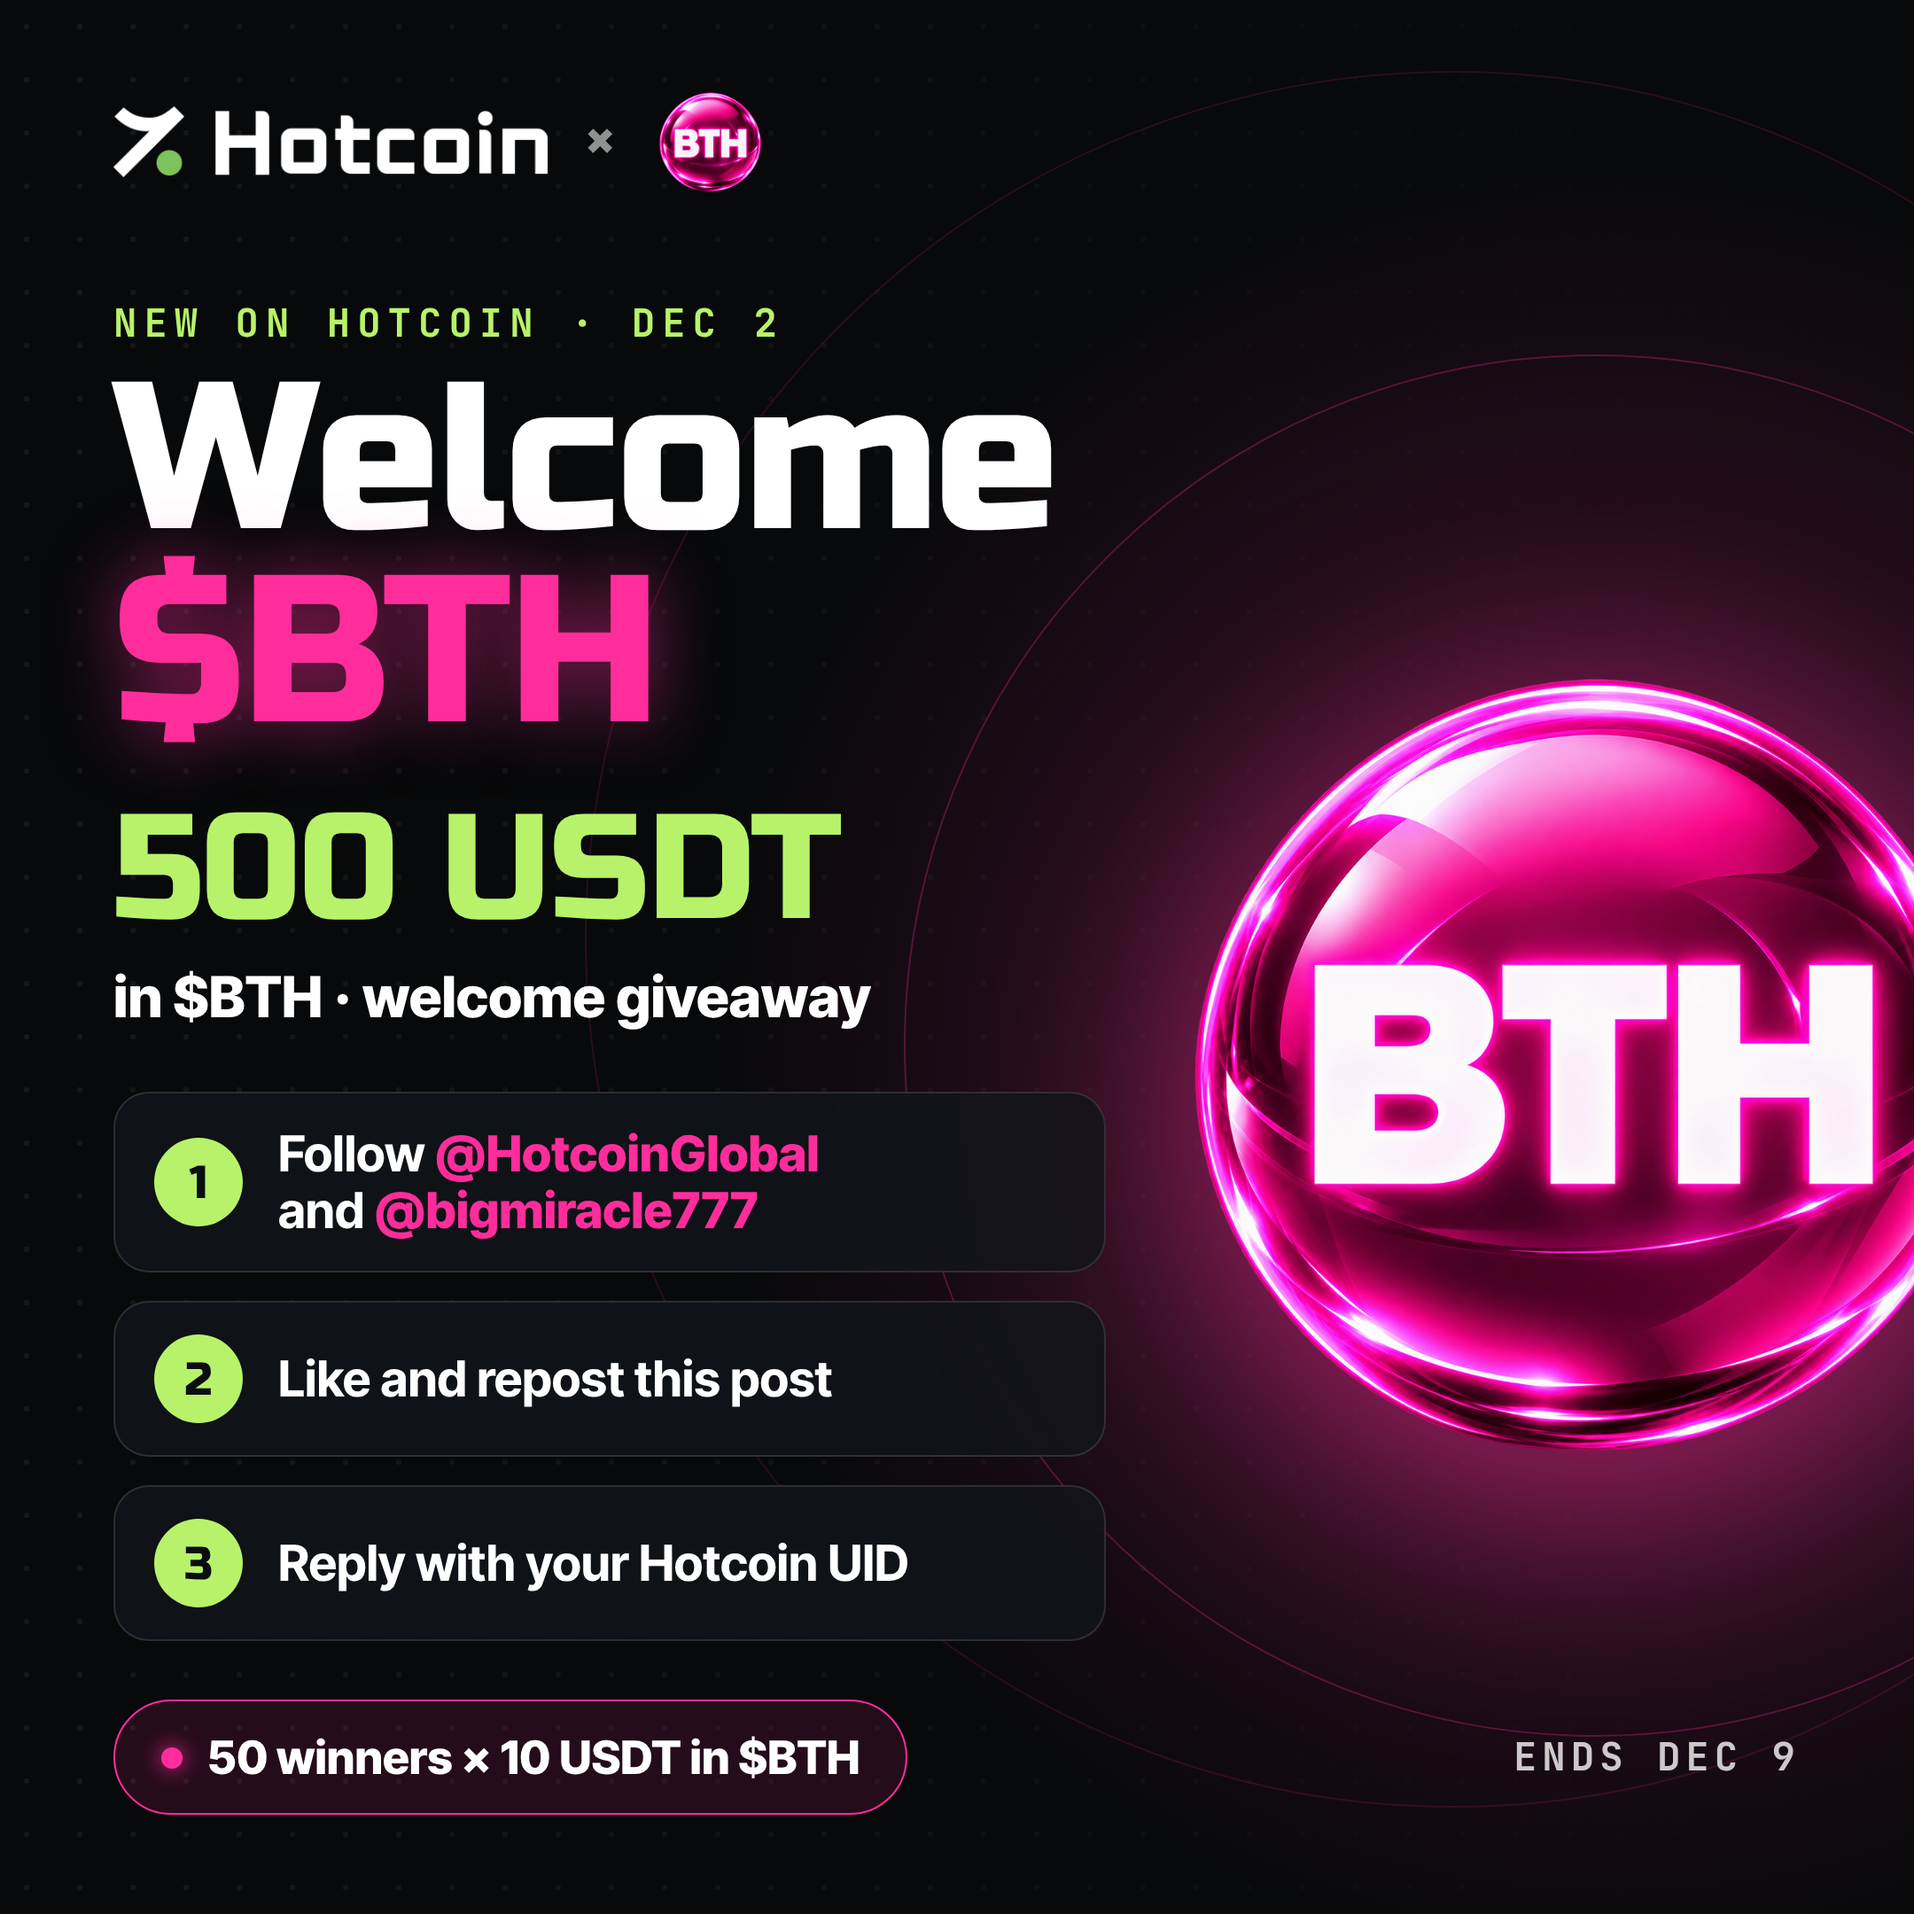
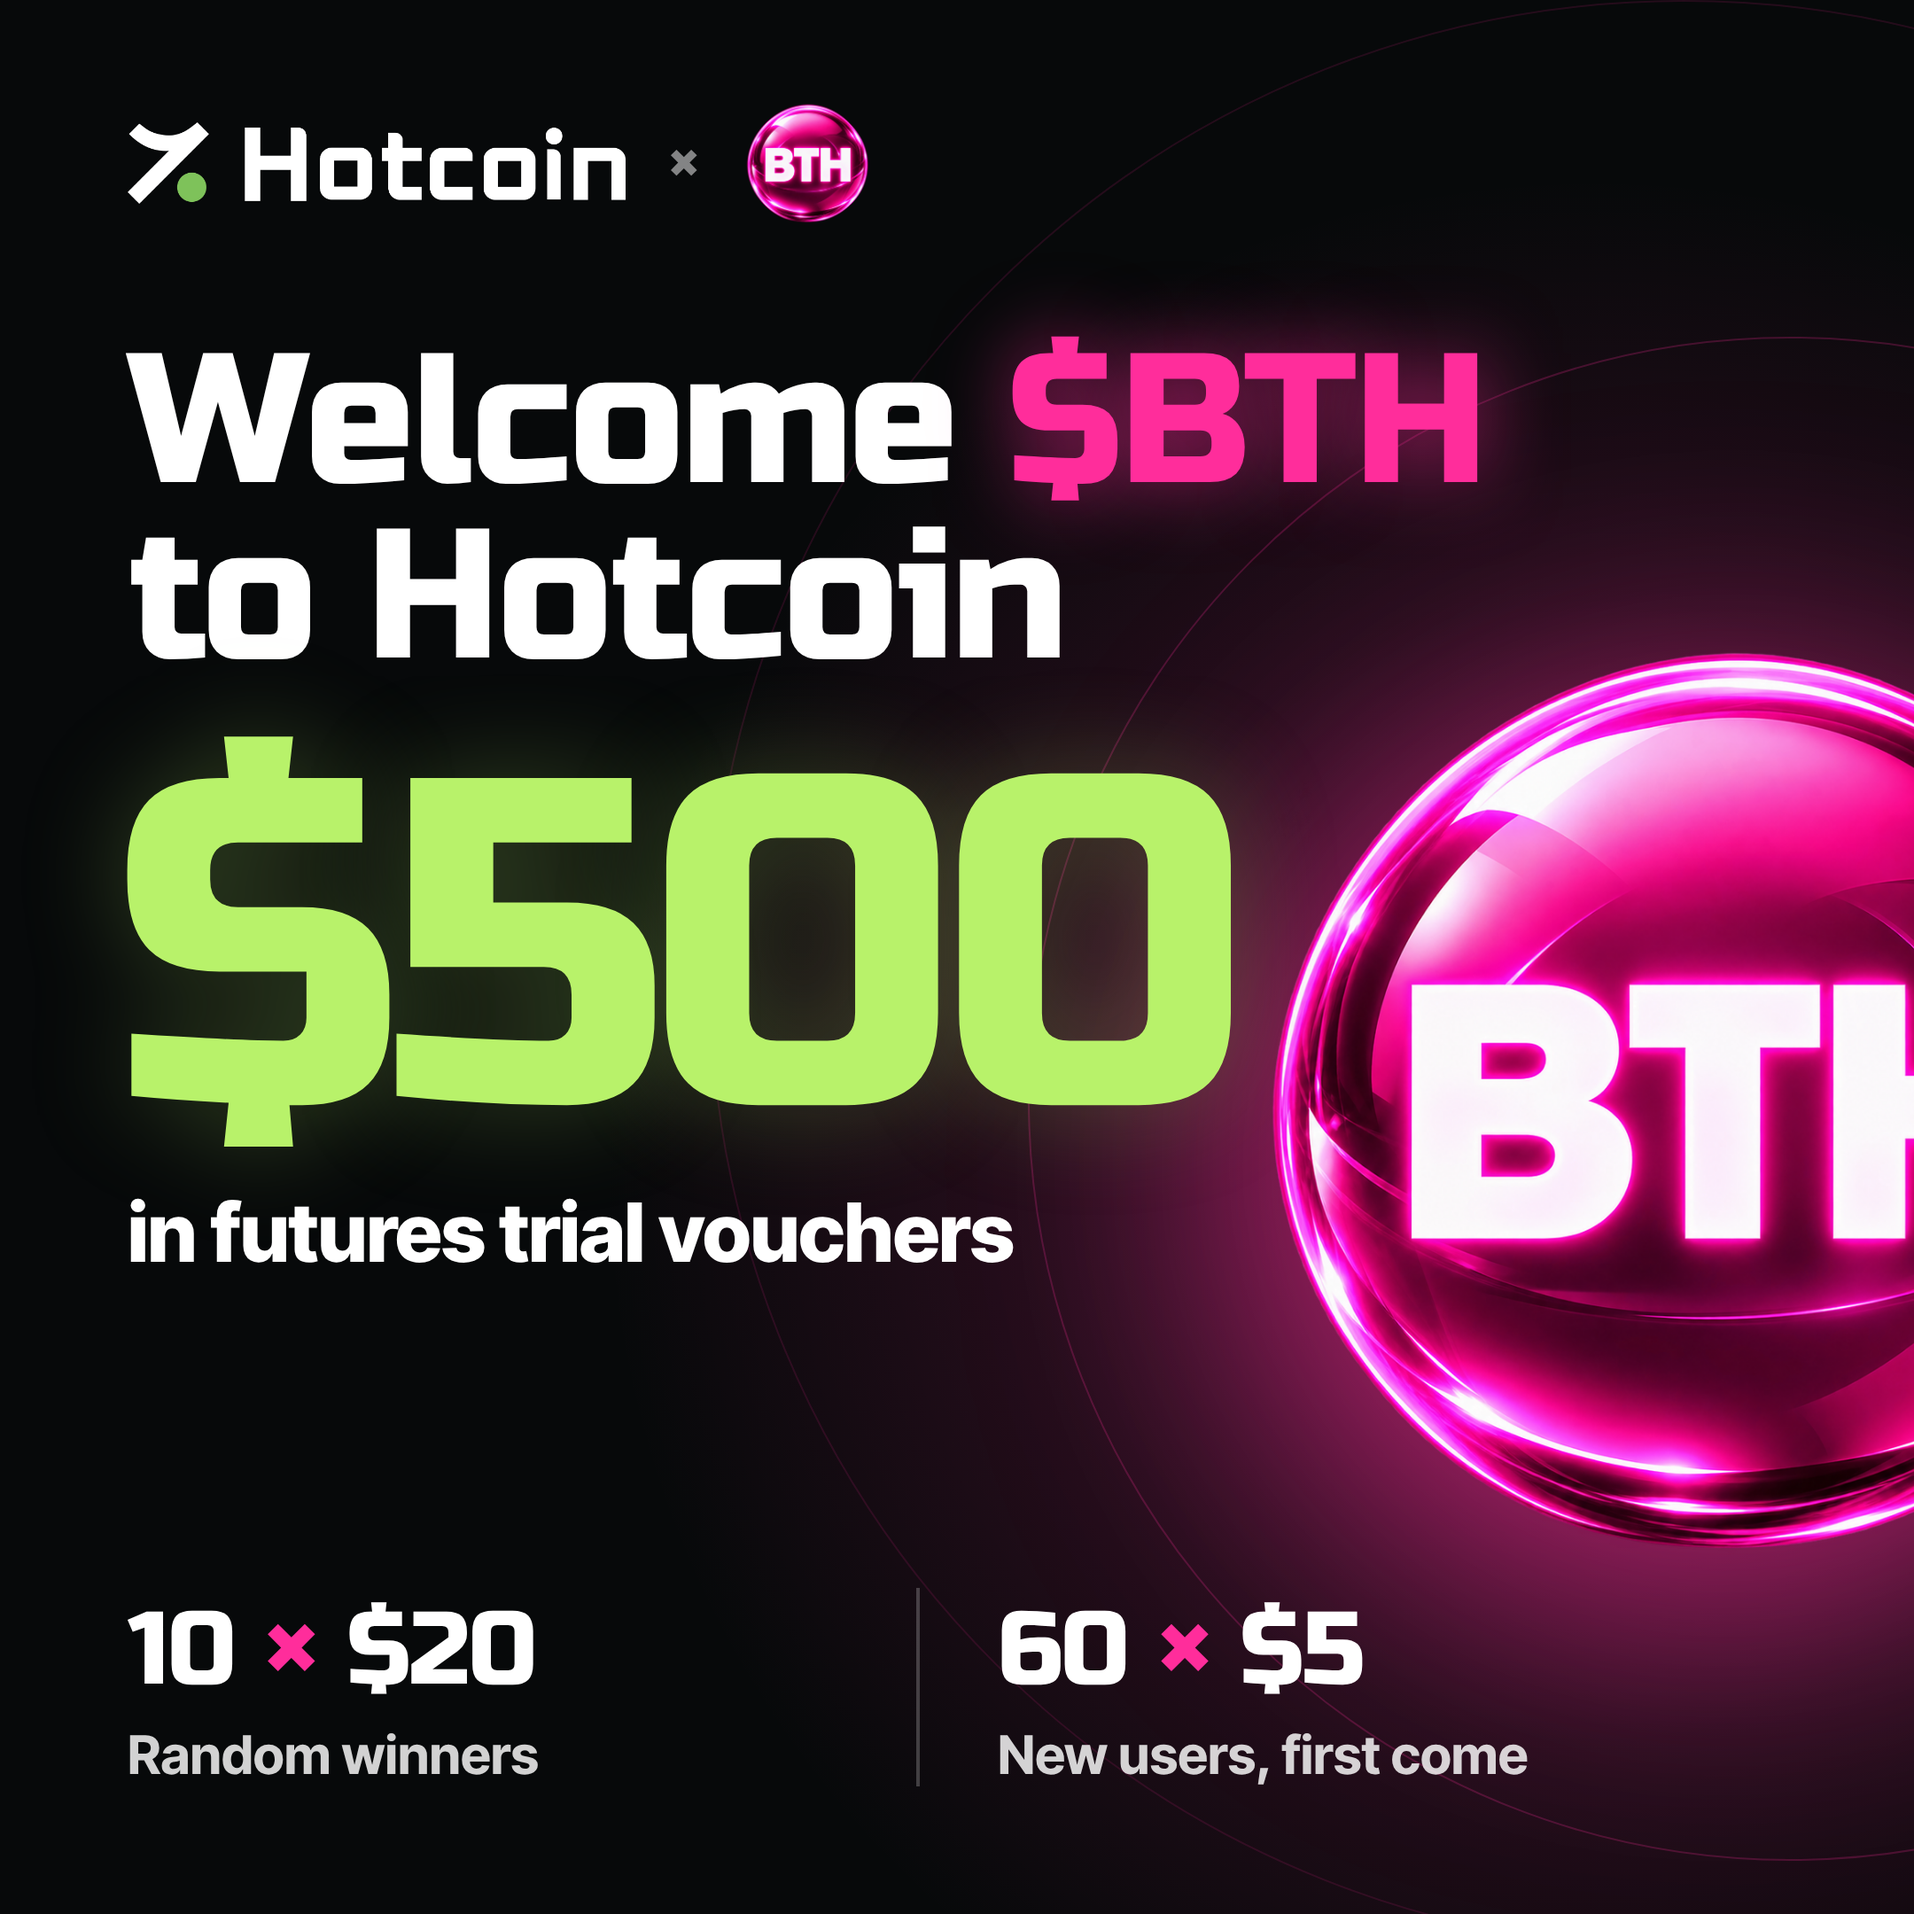
BTH welcome giveaway: clean $500 design, dual reward split, updated X copy
Claude-Session: https://claude.ai/code/session_018sSiMaWLaeVrJJ4axy8xGi

diff --git a/social/bth-welcome/x-post.md b/social/bth-welcome/x-post.md
@@ -1,27 +1,20 @@
 # Hotcoin x BTH welcome giveaway (X)
 
-Graphic: hotcoin-bth-welcome.png (1080x1080 @2x). Values live in CONFIG at the top of render.mjs.
-CONFIRM BEFORE POSTING: listing date (Dec 2 is from the promoter's X bio), prize pool / winners / end date (proposed),
-and that @bigmiracle777 is the account BTH wants tagged (its bio says "Social Media Influencer" and lists other listings).
-
-## Plan
-- Dec 1 (eve): this post on @HotcoinGlobal, pinned. Ask BTH to quote-repost it the same hour.
-- Dec 2: listing post when trading opens (reply under the giveaway post with the trade link).
-- Dec 9: giveaway closes. Draw 50 random valid replies (follows checked, UID valid).
-- Dec 10: winners post (UIDs masked) and rewards sent to Hotcoin accounts.
+Graphic: hotcoin-bth-welcome.png (1080x1080 @2x).
+Rewards: $500 total in futures trial vouchers
+- 10 random UIDs x $20 (reply with Hotcoin UID)
+- 60 x $5, first come first served, new users who register via the referral link
+CONFIRM: listing date Dec 2 (from the promoter's X bio), end date, and the BTH handle (@bigmiracle777 calls itself an influencer).
 
 ## X post
-Welcome $BTH to Hotcoin 🎁
+Welcome $BTH to Hotcoin 🎁 $500 giveaway
 
-$BTH lists on Hotcoin on Dec 2. To celebrate: 500 USDT in $BTH for our community.
-
+🎲 10 winners × $20
 1⃣ Follow @HotcoinGlobal and @bigmiracle777
-2⃣ Like and repost this post
-3⃣ Reply with your Hotcoin UID 👇
+2⃣ Like and repost
+3⃣ Reply with your Hotcoin UID
 
-50 random winners get 10 USDT in $BTH each. Ends Dec 9.
+⚡ First 60 new users × $5
+Register here: https://www.hotcoin.com/register?icCode=At602670c&hotcoinid=1
 
-Crypto prices are volatile. Not financial advice.
-
-## Reply to pin (when trading opens Dec 2)
-$BTH trading is now live on Hotcoin: hotcoin.com
+Rewards are futures trial vouchers. Futures trading is high risk.
